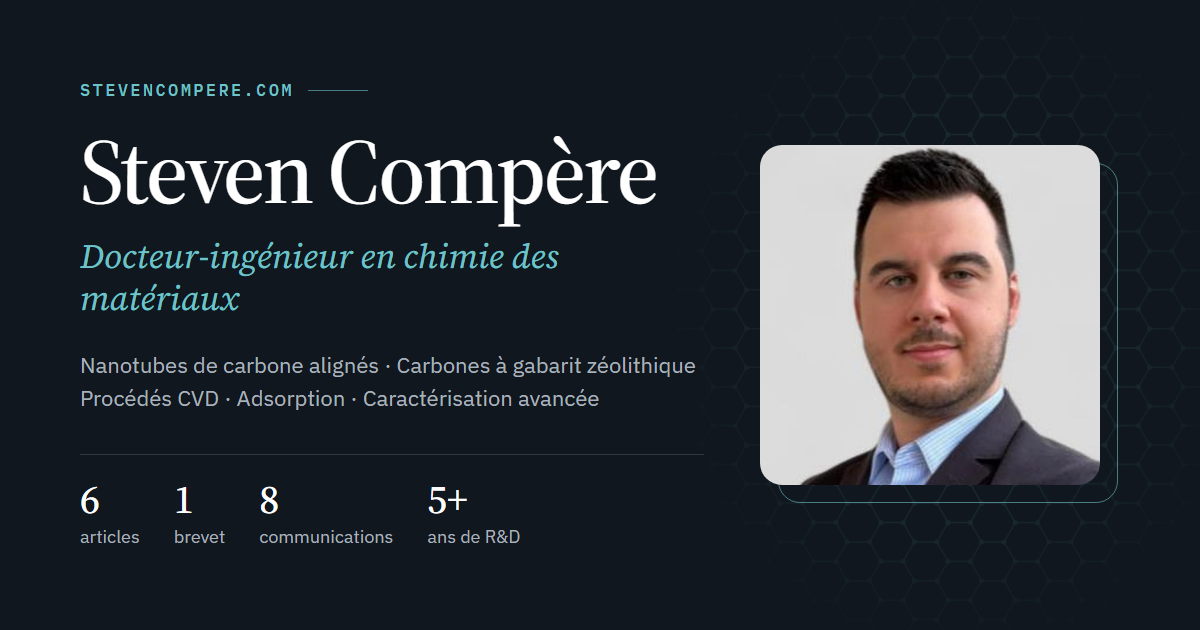
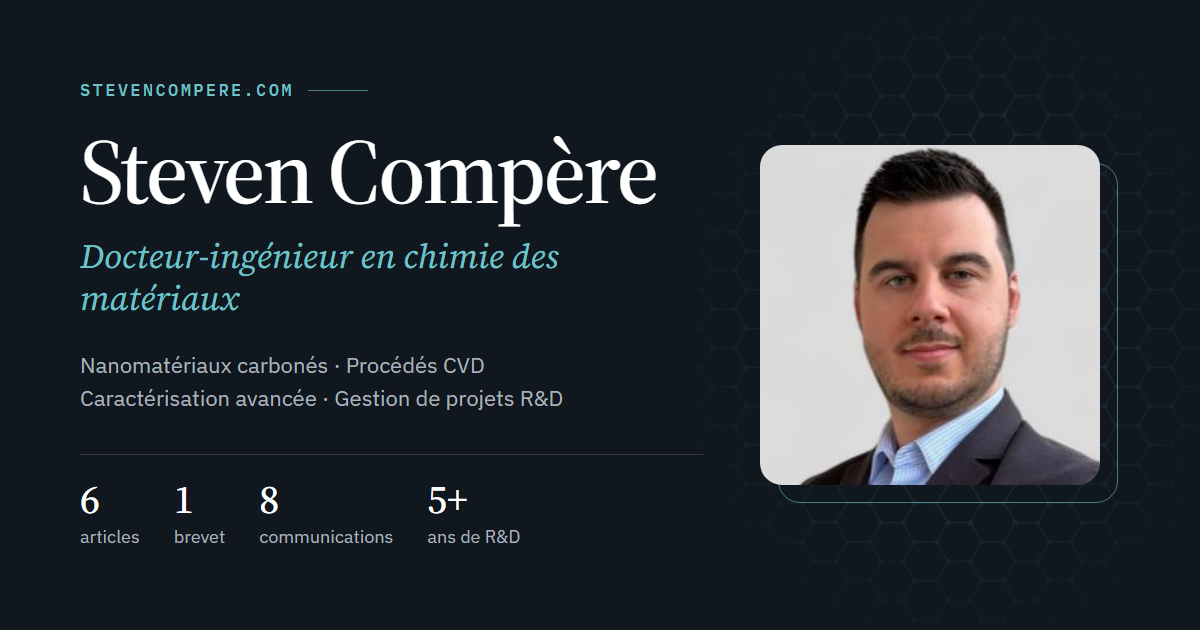
Retrait des axes de recherche et corrections de contenu
- Suppression de la section « Axes de recherche » (redondante avec le
  parcours) et des styles associés ; renumérotation des sections.
- Communications : Osaka (ZMPC 2024) passe en oral, mention « présenté
  par un co-auteur » pour Osaka et Portorož, total de 5 orales sur 8.
- Formation : « Une année de cours du soir » (pas de diplôme obtenu).
- Fiche profil : nationalité belge (citoyen de l'UE).
- Image d'aperçu : accroche alignée sur celle du CV.

Changed region(s): [[0.0617, 0.5429, 0.5858, 0.6635]]

diff --git a/index.html b/index.html
@@ -102,7 +102,6 @@
     </button>
     <ul class="nav-links" id="menu">
       <li><a href="#profil"><span lang="fr">Profil</span><span lang="en">Profile</span></a></li>
-      <li><a href="#recherche"><span lang="fr">Recherche</span><span lang="en">Research</span></a></li>
       <li><a href="#parcours"><span lang="fr">Parcours</span><span lang="en">Experience</span></a></li>
       <li><a href="#publications">Publications</a></li>
       <li><a href="#competences"><span lang="fr">Compétences</span><span lang="en">Skills</span></a></li>
@@ -175,7 +174,7 @@
     <dl class="metrics">
       <div class="metric"><dt><span lang="fr">articles dans des revues à comité de lecture</span><span lang="en">peer-reviewed journal articles</span></dt><dd>6</dd></div>
       <div class="metric"><dt><span lang="fr">demande de brevet (Japon, 2025)</span><span lang="en">patent application (Japan, 2025)</span></dt><dd>1</dd></div>
-      <div class="metric"><dt><span lang="fr">communications en congrès, dont 4 orales</span><span lang="en">conference contributions, incl. 4 talks</span></dt><dd>8</dd></div>
+      <div class="metric"><dt><span lang="fr">communications en congrès, dont 5 orales</span><span lang="en">conference contributions, incl. 5 talks</span></dt><dd>8</dd></div>
       <div class="metric"><dt><span lang="fr">années de R&amp;D, en recherche et en industrie</span><span lang="en">years of R&amp;D in academia and industry</span></dt><dd>5+</dd></div>
     </dl>
   </div>
@@ -212,6 +211,8 @@
           <dd><span lang="fr">Ingénieur industriel en chimie, HELHa (Belgique), 2020</span><span lang="en">Industrial engineer in chemistry, HELHa (Belgium), 2020</span></dd></div>
         <div><dt><span lang="fr">Langues</span><span lang="en">Languages</span></dt>
           <dd><span lang="fr">Français (langue maternelle), anglais (C1)</span><span lang="en">French (native), English (C1)</span></dd></div>
+        <div><dt><span lang="fr">Nationalité</span><span lang="en">Nationality</span></dt>
+          <dd><span lang="fr">Belge (citoyen de l'Union européenne)</span><span lang="en">Belgian (EU citizen)</span></dd></div>
         <div><dt><span lang="fr">Localisation</span><span lang="en">Based in</span></dt>
           <dd>Paris-Saclay, Île-de-France</dd></div>
       </dl>
@@ -219,118 +220,11 @@
   </div>
 </section>
 
-<!-- ==================== 02 RECHERCHE ==================== -->
-<section class="section" id="recherche">
-  <div class="wrap">
-    <div class="sec-head reveal">
-      <p class="sec-num">02 · <span lang="fr">Recherche</span><span lang="en">Research</span></p>
-      <h2><span lang="fr">Axes de recherche</span><span lang="en">Research themes</span></h2>
-      <p class="lead">
-        <span lang="fr">Trois thématiques complémentaires autour des carbones nanostructurés&nbsp;: les élaborer, comprendre ce qui contrôle leur structure, puis les mettre en forme pour l'application.</span>
-        <span lang="en">Three complementary themes around nanostructured carbons: making them, understanding what controls their structure, then shaping them for applications.</span>
-      </p>
-    </div>
-
-    <div class="research">
-      <!-- Nanotubes de carbone alignés -->
-      <article class="r-card reveal">
-        <figure class="r-fig">
-          <span class="tag tag-new"><span lang="fr">En cours</span><span lang="en">Current</span></span>
-          <svg viewBox="0 0 240 130" role="img" aria-label="Tapis de nanotubes de carbone alignés sur un substrat">
-            <path class="ill-line" d="M26 112C24.2 84.9 27.8 59.3 25.4 34.5M35.5 112C38 83.7 33 56.9 36.2 31M45 112C41.9 86.2 48.1 61.8 44.1 38.2M54.5 112C52.2 83.5 56.8 56.6 53.8 30.5M64 112C61.5 84.5 66.5 58.5 63.3 33.4M73.5 112C71.7 87.4 75.3 64.1 73 41.6M83 112C80.5 86.4 85.5 62.2 82.2 38.8M92.5 112C90.3 86.1 94.7 61.7 91.8 38.1M102 112C105 83.5 99 56.7 102.9 30.7M111.5 112C114 85.4 109 60.2 112.2 35.9M121 112C118.3 86 123.7 61.6 120.2 37.8M130.5 112C133.1 86.1 127.9 61.8 131.3 38.1M140 112C137.3 83.8 142.7 57.2 139.2 31.4M149.5 112C151.9 86.3 147.1 62.1 150.2 38.7M159 112C161.3 87.1 156.7 63.6 159.7 40.9M168.5 112C166.5 85.1 170.5 59.7 167.9 35.1M178 112C180 86.7 176 62.9 178.6 39.8M187.5 112C190.5 85.9 184.5 61.2 188.4 37.4M197 112C193.8 84.7 200.2 59 196 34M206.5 112C208.4 85.8 204.6 61.1 207.1 37.2"/>
-            <rect class="ill-sub" x="16" y="112" width="208" height="9" rx="2"/>
-            <g class="ill-cat"><circle cx="26" cy="111" r="2.1"/><circle cx="35.5" cy="111" r="2.1"/><circle cx="45" cy="111" r="2.1"/><circle cx="54.5" cy="111" r="2.1"/><circle cx="64" cy="111" r="2.1"/><circle cx="73.5" cy="111" r="2.1"/><circle cx="83" cy="111" r="2.1"/><circle cx="92.5" cy="111" r="2.1"/><circle cx="102" cy="111" r="2.1"/><circle cx="111.5" cy="111" r="2.1"/><circle cx="121" cy="111" r="2.1"/><circle cx="130.5" cy="111" r="2.1"/><circle cx="140" cy="111" r="2.1"/><circle cx="149.5" cy="111" r="2.1"/><circle cx="159" cy="111" r="2.1"/><circle cx="168.5" cy="111" r="2.1"/><circle cx="178" cy="111" r="2.1"/><circle cx="187.5" cy="111" r="2.1"/><circle cx="197" cy="111" r="2.1"/><circle cx="206.5" cy="111" r="2.1"/></g>
-            <g class="ill-dot"><circle cx="51.8" cy="14.9" r="1"/><circle cx="153" cy="18.2" r="1.5"/><circle cx="193.6" cy="12.8" r="1.6"/><circle cx="138.5" cy="16" r="1.4"/><circle cx="168.6" cy="20.3" r="1.4"/><circle cx="112.2" cy="9.7" r="1.6"/><circle cx="96.8" cy="20.9" r="1.7"/><circle cx="77.8" cy="13.6" r="1.5"/><circle cx="26.4" cy="14.5" r="1.1"/><circle cx="62" cy="21.7" r="1.6"/><circle cx="210.4" cy="18" r="1.3"/><circle cx="125.7" cy="21.6" r="1.7"/></g>
-          </svg>
-        </figure>
-        <div class="r-body">
-          <p class="r-meta">CEA Paris-Saclay · <span lang="fr">depuis 2026</span><span lang="en">since 2026</span></p>
-          <h3><span lang="fr">Nanotubes de carbone alignés &amp; membranes</span><span lang="en">Aligned carbon nanotubes &amp; membranes</span></h3>
-          <p>
-            <span lang="fr">Croissance de tapis de nanotubes de carbone verticalement alignés (VACNT) par CVD catalytique assistée par aérosol, caractérisation de leur qualité et de leur alignement, puis fabrication de membranes nanoporeuses par gravure plasma (RIE). Projet ANR CANELONI.</span>
-            <span lang="en">Growth of vertically aligned carbon nanotube (VACNT) carpets by aerosol-assisted catalytic CVD, characterisation of their quality and alignment, then fabrication of nanoporous membranes by plasma etching (RIE). ANR CANELONI project.</span>
-          </p>
-          <ul class="kw">
-            <li><span lang="fr">CVD aérosol</span><span lang="en">Aerosol CVD</span></li>
-            <li><span lang="fr">Ferrocène</span><span lang="en">Ferrocene</span></li>
-            <li><span lang="fr">MEB / MET</span><span lang="en">SEM / TEM</span></li>
-            <li>Raman</li>
-            <li><span lang="fr">ATG</span><span lang="en">TGA</span></li>
-            <li><span lang="fr">Gravure RIE</span><span lang="en">RIE etching</span></li>
-          </ul>
-        </div>
-      </article>
-
-      <!-- Carbones à gabarit zéolithique -->
-      <article class="r-card reveal">
-        <figure class="r-fig">
-          <svg viewBox="0 0 240 130" role="img" aria-label="Cycles carbonés tapissant les cages d'une zéolithe servant de gabarit">
-            <g transform="translate(120 63) scale(1.2) translate(-120 -68)">
-            <path class="ill-template" d="M92.6 79.9L75.9 96.6L52.1 96.6L35.4 79.9L35.4 56.1L52.1 39.4L75.9 39.4L92.6 56.1ZM148.6 79.9L131.9 96.6L108.1 96.6L91.4 79.9L91.4 56.1L108.1 39.4L131.9 39.4L148.6 56.1ZM204.6 79.9L187.9 96.6L164.1 96.6L147.4 79.9L147.4 56.1L164.1 39.4L187.9 39.4L204.6 56.1Z"/>
-            <path class="ill-line ill-thin" d="M89.2 72.4L85.6 76.7L80.1 75.8L78.2 70.5L81.8 66.2L87.3 67.2ZM80.5 87.6L74.9 88.6L71.3 84.3L73.3 79L78.8 78.1L82.4 82.3ZM64 93.6L59.2 90.8L59.2 85.2L64 82.4L68.8 85.2L68.8 90.8ZM47.5 87.6L45.6 82.3L49.2 78.1L54.7 79L56.7 84.3L53.1 88.6ZM38.8 72.4L40.7 67.2L46.2 66.2L49.8 70.5L47.9 75.8L42.4 76.7ZM41.8 55.2L46.7 52.4L51.5 55.2L51.5 60.8L46.7 63.6L41.8 60.8ZM55.2 43.9L60.8 44.9L62.7 50.2L59.1 54.5L53.6 53.5L51.6 48.2ZM72.8 43.9L76.4 48.2L74.4 53.5L68.9 54.5L65.3 50.2L67.2 44.9ZM86.2 55.2L86.2 60.8L81.3 63.6L76.5 60.8L76.5 55.2L81.3 52.4ZM145.2 72.4L141.6 76.7L136.1 75.8L134.2 70.5L137.8 66.2L143.3 67.2ZM136.5 87.6L130.9 88.6L127.3 84.3L129.3 79L134.8 78.1L138.4 82.3ZM120 93.6L115.2 90.8L115.2 85.2L120 82.4L124.8 85.2L124.8 90.8ZM103.5 87.6L101.6 82.3L105.2 78.1L110.7 79L112.7 84.3L109.1 88.6ZM94.8 72.4L96.7 67.2L102.2 66.2L105.8 70.5L103.9 75.8L98.4 76.7ZM97.8 55.2L102.7 52.4L107.5 55.2L107.5 60.8L102.7 63.6L97.8 60.8ZM111.2 43.9L116.8 44.9L118.7 50.2L115.1 54.5L109.6 53.5L107.6 48.2ZM128.8 43.9L132.4 48.2L130.4 53.5L124.9 54.5L121.3 50.2L123.2 44.9ZM142.2 55.2L142.2 60.8L137.3 63.6L132.5 60.8L132.5 55.2L137.3 52.4ZM201.2 72.4L197.6 76.7L192.1 75.8L190.2 70.5L193.8 66.2L199.3 67.2ZM192.5 87.6L186.9 88.6L183.3 84.3L185.3 79L190.8 78.1L194.4 82.3ZM176 93.6L171.2 90.8L171.2 85.2L176 82.4L180.8 85.2L180.8 90.8ZM159.5 87.6L157.6 82.3L161.2 78.1L166.7 79L168.7 84.3L165.1 88.6ZM150.8 72.4L152.7 67.2L158.2 66.2L161.8 70.5L159.9 75.8L154.4 76.7ZM153.8 55.2L158.7 52.4L163.5 55.2L163.5 60.8L158.7 63.6L153.8 60.8ZM167.2 43.9L172.8 44.9L174.7 50.2L171.1 54.5L165.6 53.5L163.6 48.2ZM184.8 43.9L188.4 48.2L186.4 53.5L180.9 54.5L177.3 50.2L179.2 44.9ZM198.2 55.2L198.2 60.8L193.3 63.6L188.5 60.8L188.5 55.2L193.3 52.4Z"/>
-            <g class="ill-cat"><circle cx="92" cy="68" r="2.4"/><circle cx="148" cy="68" r="2.4"/></g>
-            </g>
-          </svg>
-        </figure>
-        <div class="r-body">
-          <p class="r-meta">IC2MP, Poitiers · 2022–2025</p>
-          <h3><span lang="fr">Carbones à gabarit zéolithique (ZTC)</span><span lang="en">Zeolite-templated carbons (ZTC)</span></h3>
-          <p>
-            <span lang="fr">Réplication de zéolithes par CVD d'éthylène jusqu'à 1&nbsp;000&nbsp;°C et par voies hybrides solide/gaz pour contrôler la structure, la porosité et la fonctionnalisation (N, S) de carbones microporeux. Synthèse d'un nouveau carbone microporeux lamellaire, objet d'une demande de brevet.</span>
-            <span lang="en">Replication of zeolites by ethylene CVD up to 1,000&nbsp;°C and by hybrid solid/gas routes to control the structure, porosity and functionalisation (N, S) of microporous carbons. Synthesis of a new lamellar microporous carbon, the subject of a patent application.</span>
-          </p>
-          <ul class="kw">
-            <li><span lang="fr">CVD éthylène</span><span lang="en">Ethylene CVD</span></li>
-            <li><span lang="fr">Co-alimentation</span><span lang="en">Co-feeding</span></li>
-            <li><span lang="fr">DRX</span><span lang="en">XRD</span></li>
-            <li>XPS</li>
-            <li><span lang="fr">RMN du solide</span><span lang="en">Solid-state NMR</span></li>
-            <li><span lang="fr">RPE</span><span lang="en">EPR</span></li>
-          </ul>
-        </div>
-      </article>
-
-      <!-- Adsorption haute pression -->
-      <article class="r-card reveal">
-        <figure class="r-fig">
-          <svg viewBox="0 0 240 130" role="img" aria-label="Isothermes d'adsorption de CO2 et de CH4">
-            <path class="ill-axis" d="M30 14V116H226"/>
-            <path class="ill-axis" d="M77.5 116v4M125 116v4M172.5 116v4M220 116v4M30 92h-4M30 68h-4M30 44h-4M30 20h-4"/>
-            <path class="ill-line" d="M30 116L33.8 100.7L37.6 90L41.4 82L45.2 75.8L49 70.9L52.8 66.9L56.6 63.5L60.4 60.7L64.2 58.3L68 56.3L71.8 54.5L75.6 52.9L79.4 51.4L83.2 50.2L87 49L90.8 48L94.6 47.1L98.4 46.2L102.2 45.4L106 44.7L109.8 44.1L113.6 43.5L117.4 42.9L121.2 42.4L125 41.9L132.6 41L140.2 40.2L147.8 39.5L155.4 38.9L163 38.3L170.6 37.8L178.2 37.3L185.8 36.9L193.4 36.5L201 36.2L208.6 35.8L220 35.4"/>
-            <g class="ill-pt"><circle cx="35" cy="97" r="2.6"/><circle cx="42" cy="80.9" r="2.6"/><circle cx="52" cy="67.6" r="2.6"/><circle cx="66" cy="57.3" r="2.6"/><circle cx="85" cy="49.6" r="2.6"/><circle cx="110" cy="44" r="2.6"/><circle cx="138" cy="40.4" r="2.6"/><circle cx="170" cy="37.8" r="2.6"/><circle cx="202" cy="36.1" r="2.6"/></g>
-            <path class="ill-line ill-alt" d="M30 116L33.8 112.6L37.6 109.5L41.4 106.8L45.2 104.4L49 102.1L52.8 100.1L56.6 98.2L60.4 96.5L64.2 94.9L68 93.5L71.8 92.1L75.6 90.9L79.4 89.7L83.2 88.6L87 87.6L90.8 86.7L94.6 85.7L98.4 84.9L102.2 84.1L106 83.3L109.8 82.6L113.6 81.9L117.4 81.3L121.2 80.7L125 80.1L132.6 79L140.2 78L147.8 77.1L155.4 76.3L163 75.5L170.6 74.8L178.2 74.1L185.8 73.5L193.4 72.9L201 72.4L208.6 71.9L220 71.2"/>
-            <g class="ill-pt ill-pt-alt"><circle cx="35" cy="111.6" r="2.6"/><circle cx="42" cy="106.4" r="2.6"/><circle cx="52" cy="100.5" r="2.6"/><circle cx="66" cy="94.2" r="2.6"/><circle cx="85" cy="88.1" r="2.6"/><circle cx="110" cy="82.6" r="2.6"/><circle cx="138" cy="78.3" r="2.6"/><circle cx="170" cy="74.9" r="2.6"/><circle cx="202" cy="72.3" r="2.6"/></g>
-            <text class="ill-label" x="224" y="129" text-anchor="end">P</text>
-            <text class="ill-label" x="22" y="14" text-anchor="end">n</text>
-            <text class="ill-tag" x="218" y="27">CO<tspan dy="2.5" font-size="8">2</tspan></text>
-            <text class="ill-tag ill-tag-alt" x="218" y="88">CH<tspan dy="2.5" font-size="8">4</tspan></text>
-          </svg>
-        </figure>
-        <div class="r-body">
-          <p class="r-meta">IC2MP · LFCR, Anglet</p>
-          <h3><span lang="fr">Adsorption haute pression &amp; mise en forme</span><span lang="en">High-pressure adsorption &amp; shaping</span></h3>
-          <p>
-            <span lang="fr">Mise en forme de ZTC en pastilles robustes, mesures d'adsorption haute pression (CO<sub>2</sub>, CH<sub>4</sub>, H<sub>2</sub>) et étude des déformations induites par corrélation d'images numériques. Modélisation des mélanges (IAST) avec AdsorpSuite, logiciel libre que j'ai développé.</span>
-            <span lang="en">Shaping ZTC into robust pellets, high-pressure adsorption measurements (CO<sub>2</sub>, CH<sub>4</sub>, H<sub>2</sub>) and study of adsorption-induced deformation by digital image correlation. Mixture modelling (IAST) with AdsorpSuite, an open-source tool I developed.</span>
-          </p>
-          <ul class="kw">
-            <li>Physisorption</li>
-            <li><span lang="fr">Haute pression</span><span lang="en">High pressure</span></li>
-            <li><span lang="fr">Corrélation d'images</span><span lang="en">Image correlation</span></li>
-            <li>IAST</li>
-            <li>Python</li>
-          </ul>
-        </div>
-      </article>
-    </div>
-  </div>
-</section>
-
-<!-- ==================== 03 PARCOURS ==================== -->
+<!-- ==================== 02 PARCOURS ==================== -->
 <section class="section" id="parcours">
   <div class="wrap">
     <div class="sec-head reveal">
-      <p class="sec-num">03 · <span lang="fr">Parcours</span><span lang="en">Experience</span></p>
+      <p class="sec-num">02 · <span lang="fr">Parcours</span><span lang="en">Experience</span></p>
       <h2><span lang="fr">Expérience professionnelle</span><span lang="en">Professional experience</span></h2>
     </div>
 
@@ -448,13 +342,13 @@
   </div>
 </section>
 
-<!-- ==================== 04 PUBLICATIONS ====================
+<!-- ==================== 03 PUBLICATIONS ====================
      Pour ajouter un article : copier un bloc <li class="pub">…</li>
      et le placer en tête de liste (ordre chronologique inverse). -->
 <section class="section" id="publications">
   <div class="wrap">
     <div class="sec-head reveal">
-      <p class="sec-num">04 · Publications</p>
+      <p class="sec-num">03 · Publications</p>
       <h2><span lang="fr">Publications, brevet &amp; logiciel</span><span lang="en">Publications, patent &amp; software</span></h2>
       <p class="lead">
         <span lang="fr">Articles dans des revues internationales à comité de lecture. D'autres manuscrits en premier auteur sont en préparation, dont une revue.</span>
@@ -593,15 +487,15 @@
   </div>
 </section>
 
-<!-- ==================== 05 COMMUNICATIONS ==================== -->
+<!-- ==================== 04 COMMUNICATIONS ==================== -->
 <section class="section" id="communications">
   <div class="wrap">
     <div class="sec-head reveal">
-      <p class="sec-num">05 · Communications</p>
+      <p class="sec-num">04 · Communications</p>
       <h2><span lang="fr">Communications en congrès</span><span lang="en">Conference contributions</span></h2>
       <p class="lead">
-        <span lang="fr">8 communications dans des congrès nationaux et internationaux entre 2023 et 2025, dont 4 présentations orales.</span>
-        <span lang="en">8 contributions to national and international conferences between 2023 and 2025, including 4 oral presentations.</span>
+        <span lang="fr">8 communications dans des congrès nationaux et internationaux entre 2023 et 2025, dont 5 présentations orales.</span>
+        <span lang="en">8 contributions to national and international conferences between 2023 and 2025, including 5 oral presentations.</span>
       </p>
     </div>
 
@@ -634,7 +528,7 @@
         <div class="conf-when"><span lang="fr">Juil.</span><span lang="en">July</span> 2024<span class="place">Osaka</span></div>
         <div>
           <p class="conf-title">Zeolite-templated carbons: a new solid-state synthesis route</p>
-          <p class="conf-meta"><span class="conf-type">Poster</span><span>ZMPC 2024, <span lang="fr">Japon</span><span lang="en">Japan</span></span></p>
+          <p class="conf-meta"><span class="conf-type oral">Oral</span><span>ZMPC 2024, <span lang="fr">Japon</span><span lang="en">Japan</span></span><span class="conf-note"><span lang="fr">présenté par un co-auteur</span><span lang="en">presented by a co-author</span></span></p>
           <p class="conf-authors">A. Moissette, <strong>S. Compère</strong>, A. Le Person, T. Aumond, I. Batonneau-Gener, H. Vezin, A. Sachse</p>
         </div>
       </li>
@@ -650,7 +544,7 @@
         <div class="conf-when"><span lang="fr">Juil.</span><span lang="en">July</span> 2023<span class="place">Portorož</span></div>
         <div>
           <p class="conf-title">Advances in zeolite-templated carbon synthesis: investigating the effect of temperature and zeolite acidity</p>
-          <p class="conf-meta"><span class="conf-type oral">Oral</span><span>FEZA 2023, <span lang="fr">Slovénie</span><span lang="en">Slovenia</span></span></p>
+          <p class="conf-meta"><span class="conf-type oral">Oral</span><span>FEZA 2023, <span lang="fr">Slovénie</span><span lang="en">Slovenia</span></span><span class="conf-note"><span lang="fr">présenté par un co-auteur</span><span lang="en">presented by a co-author</span></span></p>
           <p class="conf-authors"><strong>S. Compère</strong>, T. Aumond, I. Batonneau-Gener, A. Sachse</p>
         </div>
       </li>
@@ -674,11 +568,11 @@
   </div>
 </section>
 
-<!-- ==================== 06 COMPÉTENCES ==================== -->
+<!-- ==================== 05 COMPÉTENCES ==================== -->
 <section class="section" id="competences">
   <div class="wrap">
     <div class="sec-head reveal">
-      <p class="sec-num">06 · <span lang="fr">Compétences</span><span lang="en">Skills</span></p>
+      <p class="sec-num">05 · <span lang="fr">Compétences</span><span lang="en">Skills</span></p>
       <h2><span lang="fr">Compétences clés</span><span lang="en">Key skills</span></h2>
     </div>
     <dl class="specs reveal">
@@ -731,11 +625,11 @@
   </div>
 </section>
 
-<!-- ==================== 07 FORMATION & ENGAGEMENTS ==================== -->
+<!-- ==================== 06 FORMATION & ENGAGEMENTS ==================== -->
 <section class="section" id="formation">
   <div class="wrap">
     <div class="sec-head reveal">
-      <p class="sec-num">07 · <span lang="fr">Formation</span><span lang="en">Education</span></p>
+      <p class="sec-num">06 · <span lang="fr">Formation</span><span lang="en">Education</span></p>
       <h2><span lang="fr">Formation &amp; engagements</span><span lang="en">Education &amp; involvement</span></h2>
     </div>
     <div class="two-col">
@@ -767,7 +661,7 @@
             <p class="org">LPICM, École polytechnique</p>
           </li>
           <li>
-            <div class="edu-top"><h3><span lang="fr">Cours du soir en sciences de gestion (programme de master)</span><span lang="en">Evening courses in management (master's programme)</span></h3><span class="yr">2021–2022</span></div>
+            <div class="edu-top"><h3><span lang="fr">Une année de cours du soir en sciences de gestion (programme de master)</span><span lang="en">One year of evening courses in management (master's programme)</span></h3><span class="yr">2021–2022</span></div>
             <p class="org">UCLouvain, <span lang="fr">Belgique</span><span lang="en">Belgium</span></p>
           </li>
         </ul>

diff --git a/assets/css/site.css b/assets/css/site.css
@@ -3,7 +3,7 @@
    ------------------------------------------------------------------
    1. Polices        5. Hero              9.  Publications
    2. Variables      6. Sections          10. Communications
-   3. Base           7. Profil/Recherche  11. Compétences, formation
+   3. Base           7. Profil            11. Compétences, formation
    4. Navigation     8. Parcours          12. Contact, pied de page
    Pour changer une couleur : modifier les variables du bloc 2,
    le site entier (mode clair et sombre) suit.
@@ -197,7 +197,7 @@ html[lang="en"] [lang="fr"]{display:none!important}
 .tag-new{background:var(--copper-soft);color:var(--copper)}
 .tag-plain{background:transparent;border:1px solid var(--line-strong);color:var(--muted)}
 
-/* ---------- 7. PROFIL & RECHERCHE ---------- */
+/* ---------- 7. PROFIL ---------- */
 .about{display:grid;grid-template-columns:minmax(0,1.5fr) minmax(0,1fr);gap:clamp(32px,6vw,72px);align-items:start}
 .about-text p{font-size:1.12rem;color:var(--ink-2)}
 .about-text p:first-child{font-family:var(--serif);font-size:clamp(1.3rem,2.3vw,1.55rem);line-height:1.45;color:var(--ink);letter-spacing:-.01em}
@@ -207,36 +207,6 @@ html[lang="en"] [lang="fr"]{display:none!important}
 .facts dt{font:500 .7rem/1.3 var(--mono);letter-spacing:.09em;text-transform:uppercase;color:var(--muted);margin-bottom:4px}
 .facts dd{margin:0;font-size:.97rem;color:var(--ink);line-height:1.5}
 @media (max-width:860px){.about{grid-template-columns:1fr}}
-
-.research{display:grid;grid-template-columns:repeat(3,minmax(0,1fr));gap:20px}
-.r-card{display:flex;flex-direction:column;background:var(--surface);border:1px solid var(--line);border-radius:var(--radius);overflow:hidden;transition:border-color .2s ease,transform .2s var(--ease),box-shadow .2s ease}
-.r-card:hover{border-color:var(--line-strong);transform:translateY(-3px);box-shadow:var(--shadow)}
-.r-fig{position:relative;margin:0;padding:18px 18px 8px;background:var(--sunken);border-bottom:1px solid var(--line)}
-.r-fig svg{width:100%;height:auto}
-.r-fig .tag{position:absolute;top:14px;left:14px}
-.r-body{display:flex;flex-direction:column;gap:12px;padding:22px 24px 24px;flex:1}
-.r-body .r-meta{font:500 .72rem/1.4 var(--mono);letter-spacing:.07em;text-transform:uppercase;color:var(--muted)}
-.r-body h3{font-size:1.32rem;letter-spacing:-.012em}
-.r-body p{margin:0;font-size:.97rem;color:var(--ink-2)}
-.kw{display:flex;flex-wrap:wrap;gap:6px;margin-top:auto;padding-top:6px;list-style:none}
-.kw li{font-size:.78rem;padding:3px 9px;border-radius:6px;background:var(--sunken);color:var(--ink-2);border:1px solid var(--line)}
-@media (max-width:980px){.research{grid-template-columns:1fr 1fr}}
-@media (max-width:660px){.research{grid-template-columns:1fr}}
-
-/* Illustrations SVG */
-.ill-line{fill:none;stroke:var(--accent);stroke-width:2;stroke-linecap:round;stroke-linejoin:round}
-.ill-thin{stroke-width:1.4}
-.ill-alt{stroke:var(--ink-2);stroke-dasharray:none;opacity:.55}
-.ill-sub{fill:var(--line-strong)}
-.ill-cat circle{fill:var(--copper)}
-.ill-dot circle{fill:var(--muted);opacity:.5}
-.ill-template{fill:none;stroke:var(--muted);stroke-width:1.2;stroke-dasharray:3 4;opacity:.75}
-.ill-axis{fill:none;stroke:var(--muted);stroke-width:1.2;stroke-linecap:round}
-.ill-pt circle{fill:var(--surface);stroke:var(--accent);stroke-width:1.6}
-.ill-pt-alt circle{stroke:var(--ink-2);opacity:.75}
-.ill-label{font:italic 13px var(--serif);fill:var(--muted)}
-.ill-tag{font:500 10px var(--mono);fill:var(--accent);letter-spacing:.04em}
-.ill-tag-alt{fill:var(--muted)}
 
 /* ---------- 8. PARCOURS ---------- */
 .timeline{list-style:none;position:relative}
@@ -310,6 +280,7 @@ html[lang="en"] [lang="fr"]{display:none!important}
 .conf-authors{margin:4px 0 0;font-size:.82rem;color:var(--muted);line-height:1.5}
 .conf-authors strong{color:var(--ink-2);font-weight:600}
 .conf-type{font:500 .68rem/1.4 var(--mono);letter-spacing:.06em;text-transform:uppercase;padding:2px 7px;border-radius:5px;border:1px solid var(--line-strong);color:var(--muted)}
+.conf-note{font-size:.8rem;color:var(--muted);font-style:italic}
 .conf-type.oral{border-color:transparent;background:var(--accent-soft);color:var(--accent)}
 @media (max-width:860px){.confs{grid-template-columns:1fr}}
 @media (max-width:480px){.conf{grid-template-columns:1fr}}
